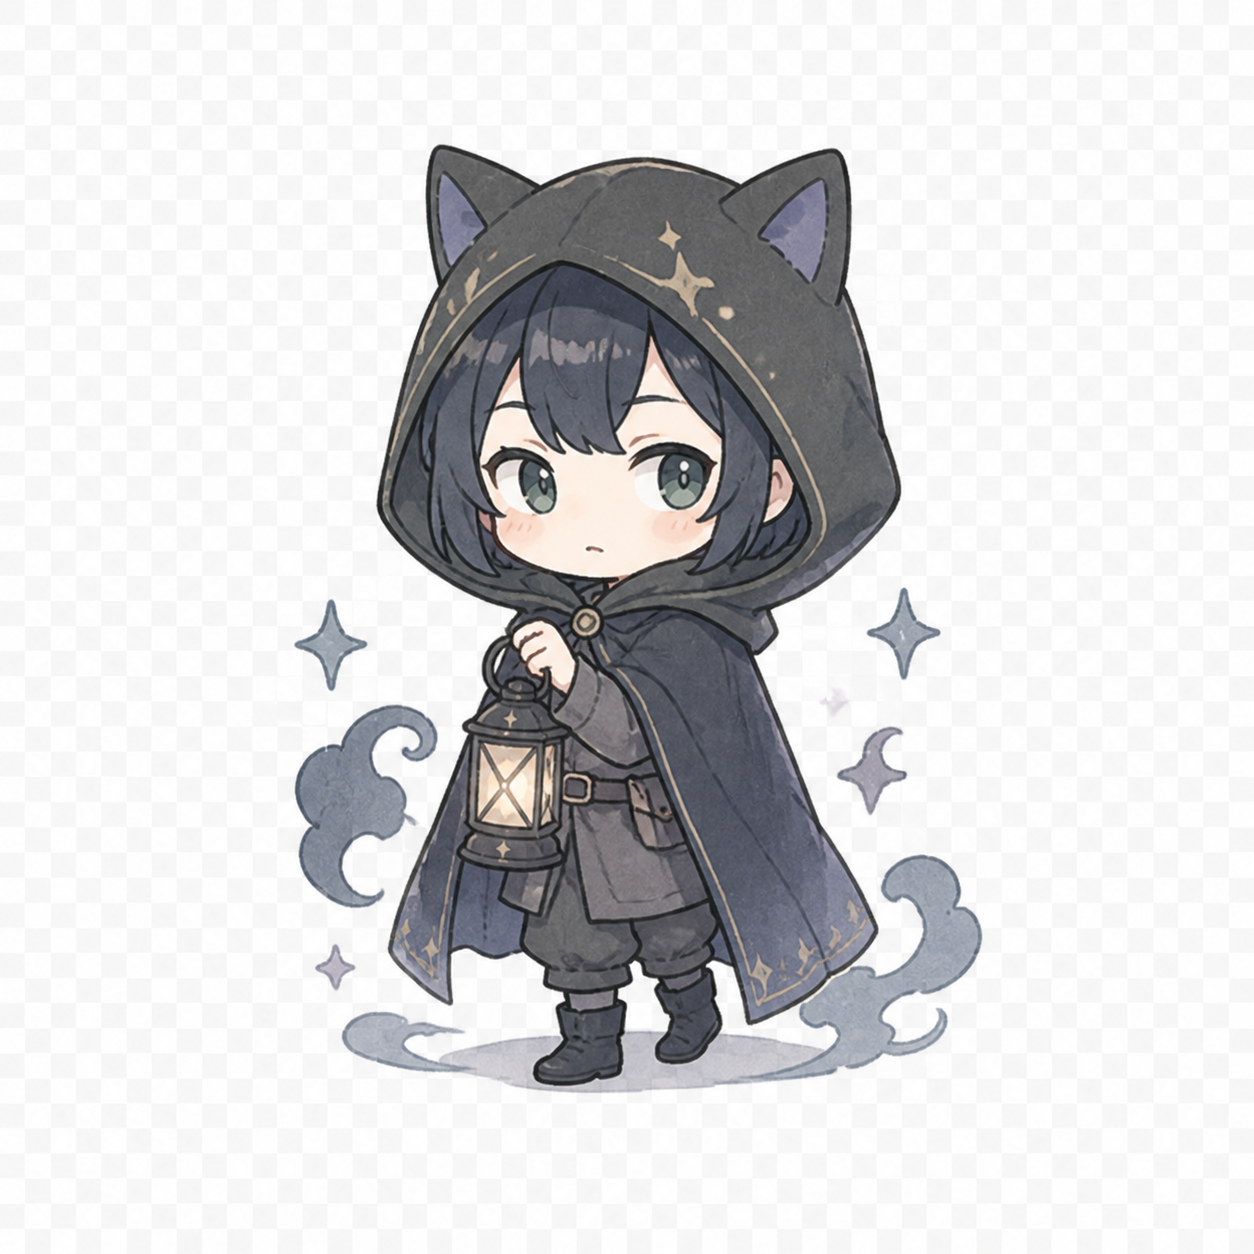
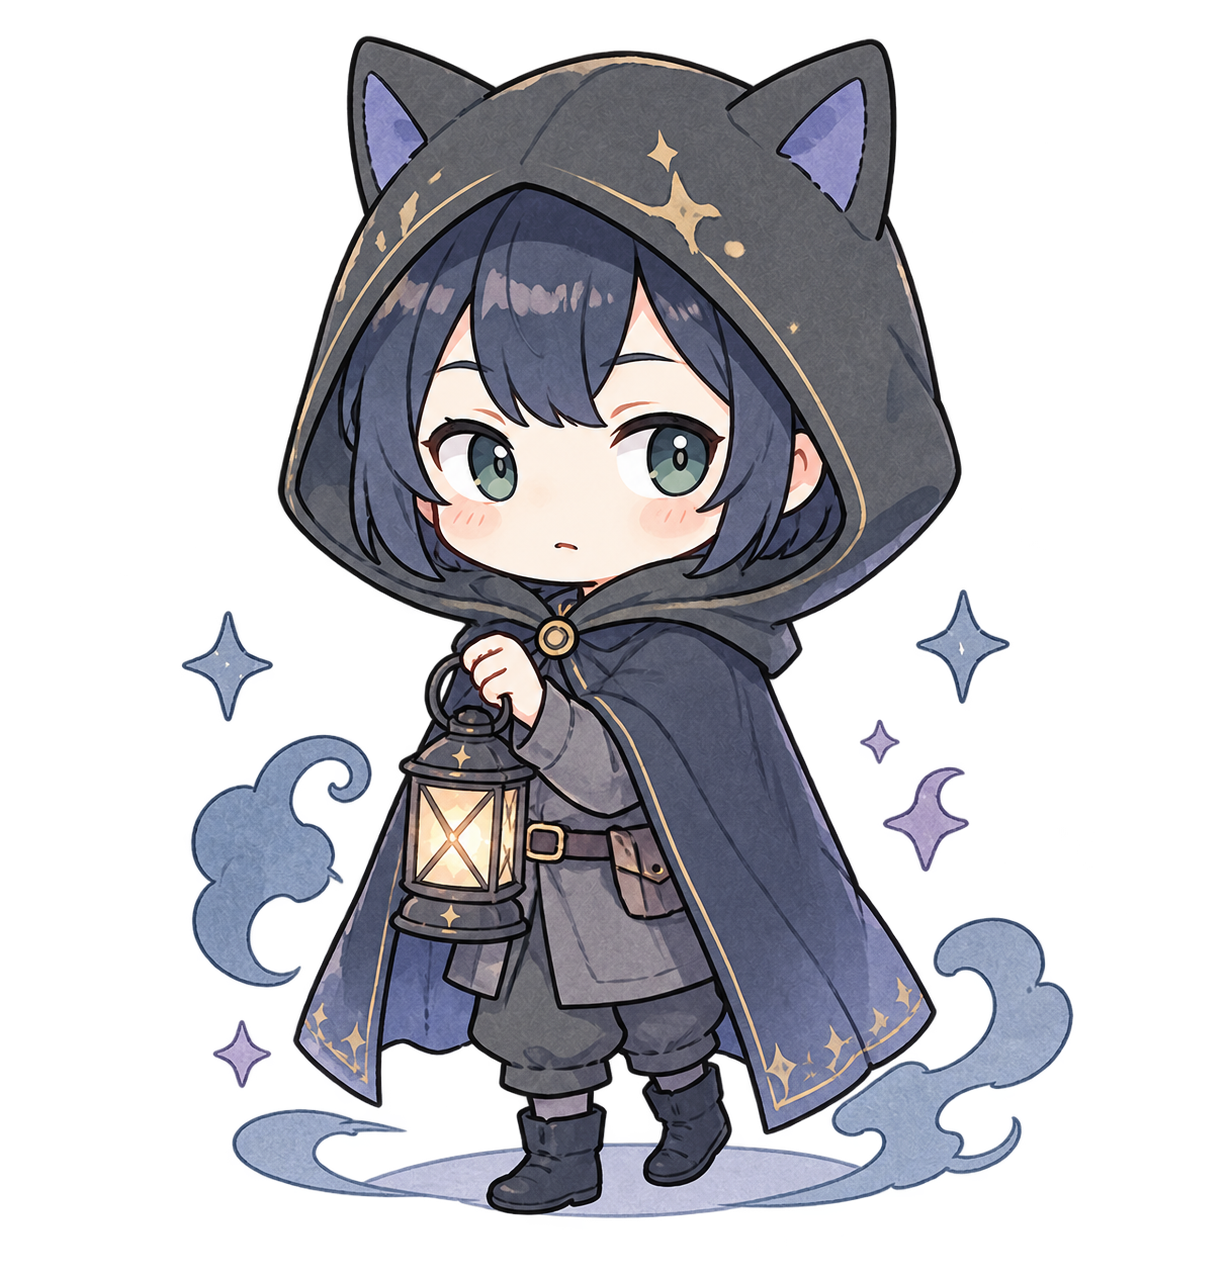
Fix transparent character assets and naming

diff --git a/app/globals.css b/app/globals.css
@@ -38,6 +38,7 @@ img { max-width: 100%; }
 .kicker.dark { color: var(--lavender); }
 .hero h1 { margin: 0; font-size: clamp(46px, 12.8vw, 83px); line-height: 1.03; font-weight: 900; letter-spacing: -.07em; }
 .hero h1 em, .axis-preview h2 em { color: var(--sage); font-style: normal; }
+.hero h1 em { display: inline-block; font-size: .82em; white-space: nowrap; }
 .hero-copy { max-width: 430px; margin: 22px 0 0; color: var(--ink-soft); font-size: 13px; font-weight: 650; line-height: 1.85; }
 .primary-button, .summon-button { display: flex; align-items: center; justify-content: space-between; border: 1px solid var(--ink); color: var(--paper); background: var(--ink); font-weight: 850; cursor: pointer; box-shadow: 4px 4px 0 #b8c9ad; transition: transform .18s ease, box-shadow .18s ease, background .18s ease; }
 .primary-button { width: 100%; min-height: 61px; margin-top: 29px; padding: 0 20px; font-size: 13px; }
@@ -46,7 +47,7 @@ img { max-width: 100%; }
 .time-note { display: block; margin-top: 14px; color: #91867b; font-size: 8px; font-weight: 800; letter-spacing: .14em; text-align: center; }
 .hero-characters { position: relative; z-index: 2; width: min(100%, 520px); height: 330px; align-self: end; margin: 24px auto 0; }
 .hero-character { position: absolute; bottom: 0; width: 48%; margin: 0; text-align: center; animation: character-rise .65s ease both; }
-.hero-character img { display: block; width: 100%; aspect-ratio: 1; object-fit: contain; mix-blend-mode: multiply; }
+.hero-character img { display: block; width: 100%; aspect-ratio: 1; object-fit: contain; }
 .hero-character figcaption { display: inline-flex; gap: 6px; align-items: center; margin-top: -20px; padding: 6px 9px; border: 1px solid var(--line); background: rgba(251,248,242,.92); font-size: 8px; font-weight: 800; white-space: nowrap; }
 .hero-character figcaption span { color: var(--sage); }
 .character-1 { left: -7%; transform: rotate(-4deg) scale(.78); transform-origin: bottom; animation-delay: .08s; }
@@ -69,7 +70,7 @@ img { max-width: 100%; }
 .teaser-heading > p:last-child { max-width: 430px; margin: 23px 0 0; color: var(--ink-soft); font-size: 11px; font-weight: 650; line-height: 1.8; }
 .character-grid { width: min(100%, 1040px); display: grid; grid-template-columns: repeat(2, minmax(0,1fr)); margin: 0 auto; overflow: hidden; border: 1px solid var(--line); border-radius: 13px; background: var(--line); gap: 1px; }
 .character-tile { min-width: 0; display: grid; grid-template-rows: auto 1fr; background: var(--paper); }
-.character-tile img { display: block; width: 100%; aspect-ratio: 1; object-fit: contain; padding: 4px; mix-blend-mode: multiply; transition: transform .25s ease; }
+.character-tile img { display: block; width: 100%; aspect-ratio: 1; object-fit: contain; padding: 4px; transition: transform .25s ease; }
 .character-tile:hover img { transform: translateY(-4px); }
 .character-tile > div { display: flex; flex-direction: column; min-height: 102px; padding: 13px 12px 15px; border-top: 1px solid var(--line-soft); }
 .character-tile span { color: var(--sage); font-size: 9px; font-weight: 900; letter-spacing: .1em; }
@@ -112,7 +113,7 @@ footer strong { color: var(--ink); font-size: 12px; letter-spacing: .08em; }
 .result-hero { position: relative; min-height: 690px; display: flex; flex-direction: column; align-items: center; justify-content: flex-end; overflow: hidden; padding: 74px 16px 43px; border-bottom: 1px solid var(--line); text-align: center; background: linear-gradient(90deg, rgba(126,154,114,.055) 1px, transparent 1px), linear-gradient(rgba(126,154,114,.055) 1px, transparent 1px), var(--paper); background-size: 36px 36px; }
 .result-hero::before { position: absolute; top: 88px; width: min(88vw, 420px); aspect-ratio: 1; content: ''; border: 1px solid #c7bcaf; border-radius: 50%; background: rgba(255,255,255,.34); }
 .result-character { position: relative; z-index: 1; width: min(84vw, 410px); margin-bottom: -15px; animation: character-rise .7s ease both; }
-.result-character img { display: block; width: 100%; aspect-ratio: 1; object-fit: contain; mix-blend-mode: multiply; }
+.result-character img { display: block; width: 100%; aspect-ratio: 1; object-fit: contain; }
 .result-eyebrow, .type-code, .result-hero h1, .result-catch { position: relative; z-index: 2; animation: rise-in .5s ease both; }
 .result-eyebrow { margin: 0 0 9px; color: var(--sage); font-size: 8px; font-weight: 900; letter-spacing: .15em; }
 .type-code { padding: 4px 8px; border: 1px solid var(--line); border-radius: 5px; color: var(--sage); background: var(--paper); font-size: 8px; font-weight: 900; letter-spacing: .16em; }
@@ -151,7 +152,7 @@ footer strong { color: var(--ink); font-size: 12px; letter-spacing: .08em; }
 .match-row { display: grid; grid-template-columns: 112px 1fr; gap: 17px; align-items: center; padding: 15px; border-bottom: 1px solid var(--line-soft); }
 .match-row:last-child { border-bottom: 0; }
 .match-image { position: relative; overflow: hidden; aspect-ratio: 1; border-radius: 8px; background: #f4efe6; }
-.match-image img { display: block; width: 100%; height: 100%; object-fit: contain; mix-blend-mode: multiply; }
+.match-image img { display: block; width: 100%; height: 100%; object-fit: contain; }
 .match-image span { position: absolute; top: 6px; left: 6px; padding: 3px 5px; border: 1px solid var(--line); border-radius: 3px; color: var(--sage); background: var(--paper); font-size: 7px; font-weight: 900; }
 .match-row small { color: var(--sage); font-size: 7px; font-weight: 900; letter-spacing: .12em; }
 .match-row h3 { margin: 5px 0 8px; font-size: 18px; letter-spacing: -.04em; }

diff --git a/app/page.tsx b/app/page.tsx
@@ -170,7 +170,7 @@ const typeResults: Record<string, TypeResult> = {
     rituals: [{ title: '吉報の即アクション', detail: '嬉しい連絡が来たら、24時間以内に小さな次の一手を打つ。' }, { title: '朝一番の窓開け', detail: '部屋の空気を動かしながら、今日広げたい流れを声に出す。' }, { title: '満月の棚卸し', detail: '増やす願いだけでなく、続けなくていい予定を手放す。' }],
   },
   PBCR: {
-    name: 'ボス猫', catchphrase: '来た波に乗れば、未来はもっと面白くなる。',
+    name: '追い風ライダー', catchphrase: '来た波に乗れば、未来はもっと面白くなる。',
     description: '偶然や人から届く好意を素直に受け取り、その流れに乗るほど未来が開いていくタイプ。頑張って引き寄せようとしなくても、楽しそうにしている姿そのものが次の幸運を呼びます。「なんとなく気になる」を信じられる、生まれつきの受信上手です。',
     tendencies: ['誘いやプレゼントから予想外の展開が始まりやすい', '場の空気を読み、今どこに勢いがあるか直感でわかる', '好きなことを楽しんでいる時に人や情報が集まる'],
     strength: '幸運を受け取る無邪気さと、波に乗る反射神経。人の厚意を喜びに変えられます。',
@@ -266,7 +266,7 @@ const typeResults: Record<string, TypeResult> = {
     strength: '受容と修復のバランス。感情が揺れる場でも、現実的で長持ちする解決を選びます。',
     blindspot: '自分にも厳しい判決を出し、避けられなかったことまで責任として背負いがちです。',
     advice: '判断の最後に「親友にも同じ厳しさを向ける？」と確認を。自分への慈悲が、判断をより公平にします。',
-    matches: [{ code: 'PBCR', reason: 'ボス猫の明るさが、あなたに予想外の温かい判決を教えます。' }, { code: 'NDER', reason: '責任感と守る力を理解し合える、静かで揺るがない信頼関係。' }],
+    matches: [{ code: 'PBCR', reason: '追い風ライダーの明るさが、あなたに予想外の温かい判決を教えます。' }, { code: 'NDER', reason: '責任感と守る力を理解し合える、静かで揺るがない信頼関係。' }],
     rituals: [{ title: '一日の閉廷', detail: '夜に「今日できたこと」を3つ認定し、反省会を終わらせる。' }, { title: '左右の天秤メモ', detail: '迷いを得るもの・失うものに分け、感情も同じ一票として数える。' }, { title: '机上の浄化', detail: '判断前に机の上を空にし、視界と考えを同時に整える。' }],
   },
   NDER: {
@@ -381,7 +381,7 @@ export default function Home() {
         <section className="hero" id="top">
           <div className="hero-content">
             <p className="kicker">12 QUESTIONS / 16 CHARACTERS</p>
-            <h1>あなたの運命、<br /><em>どのキャラ？</em></h1>
+            <h1>あなたは<br /><em>どのスピタイプ？</em></h1>
             <p className="hero-copy">恋愛、推し、バイト、偶然。12問で“運の信じ方”を16タイプに。</p>
             <button className="primary-button" type="button" onClick={() => setStarted(true)}>
               自分のキャラを見つける <ArrowRight aria-hidden="true" />
